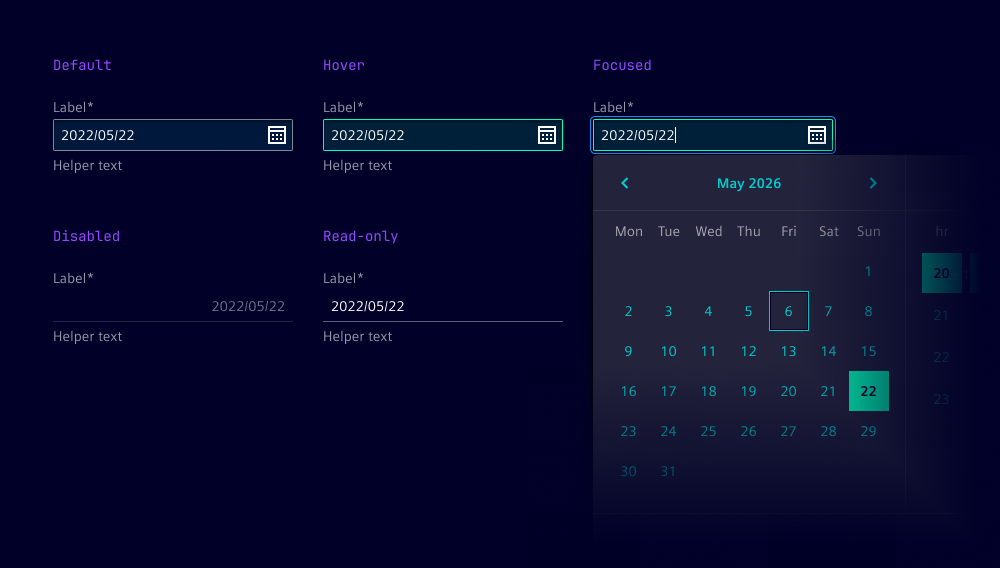
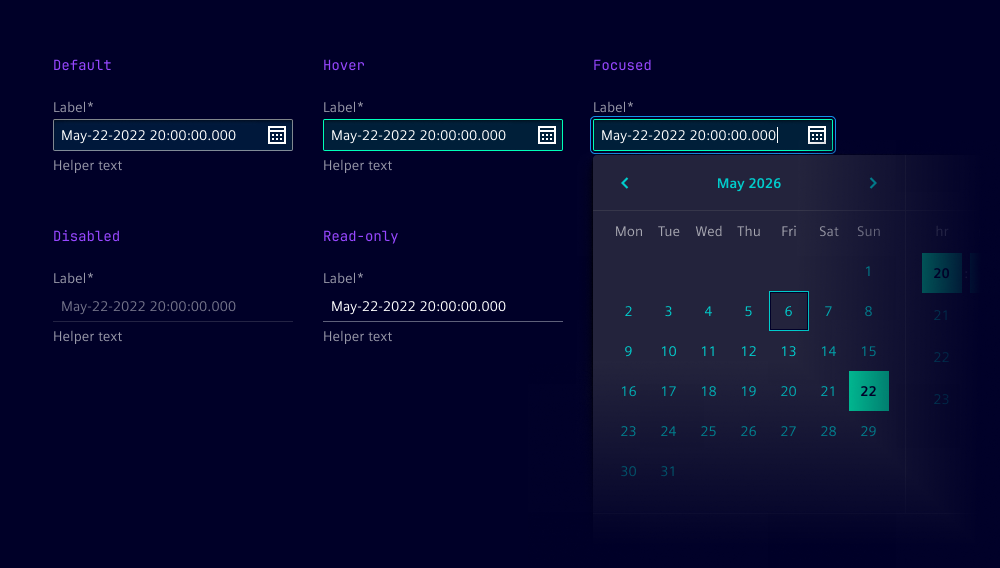
Update date/time picker docs and add accessibility reference
Improved documentation for date picker, date-time picker, input-date-time, input-date, input-time, and time picker components with clearer option descriptions and behavior explanations. Added links to the W3C date picker accessibility reference for all related guides. Updated Figma illustration for date-time picker states.

diff --git a/docs/components/input-date/guide.md b/docs/components/input-date/guide.md
@@ -73,3 +73,4 @@ Date input has five states: Default, hover, disabled, read-only and focused.
 - [Dropdown](../dropdown)
 - [Input](../input)
 - [Select](../select)
+- [W3C date picker accessibility reference](https://www.w3.org/WAI/ARIA/apg/patterns/combobox/examples/combobox-datepicker/)
